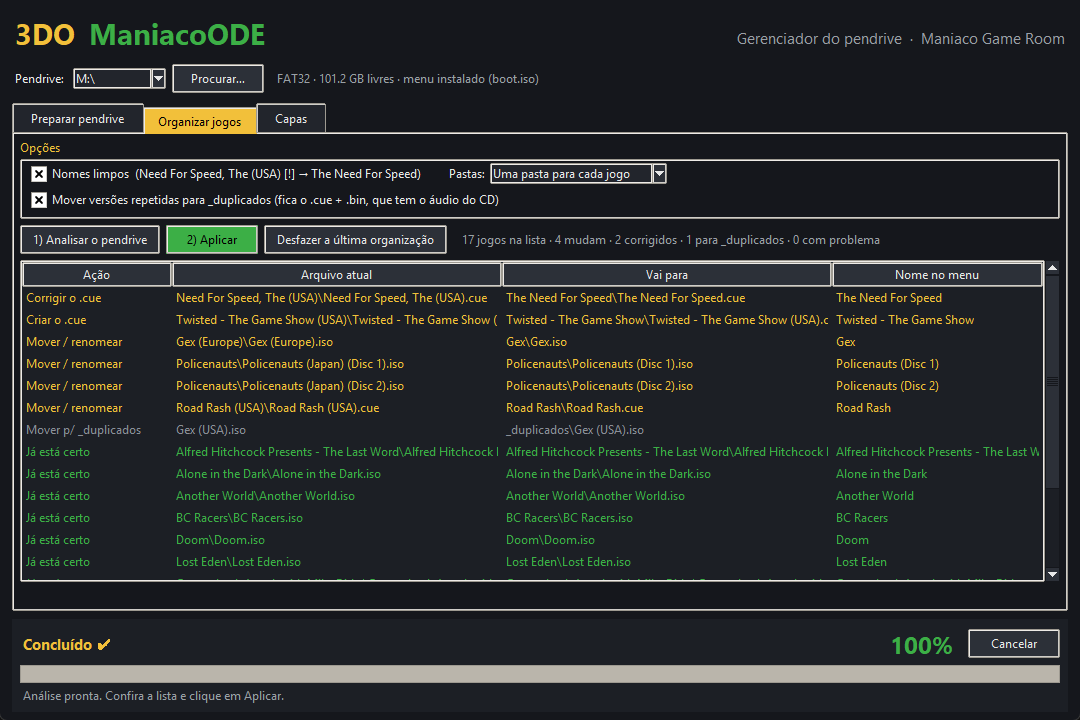
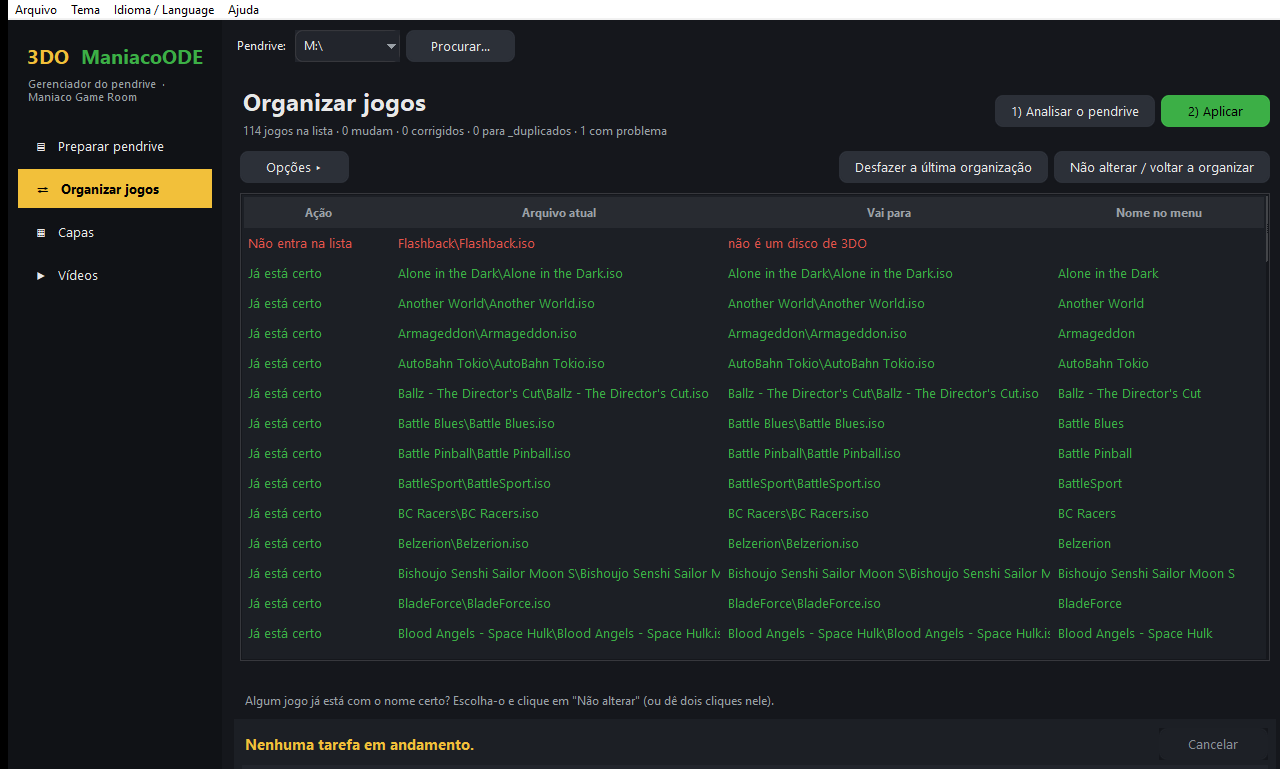
Documentação v1.3: programa do PC novo (barra lateral, grades, importar pasta, atualização), imagens PT/EN

Changed region(s): [[0.0, 0.0, 1.0, 1.0], [0.8556, 0.275, 0.9472, 0.3056], [0.9778, 0.825, 1.0, 0.8556]]

diff --git a/MANUAL.en.md b/MANUAL.en.md
@@ -79,17 +79,20 @@ Policenauts/
 
 ![Prepare USB drive](imagens/app-preparar-en.png)
 
-- **USB drive** (top): pick the drive letter. The program suggests the drives that already have `boot.iso` first. Next to it you see the file system, the free space and whether the menu is installed. Use **Browse…** if the drive is not listed.
-- **Tabs:** Prepare USB drive, Organize games, Box art and Videos.
+- **Sidebar** (left): the four screens — **Prepare USB drive**, **Organize games**, **Box art** and **Videos**; the open one is highlighted. At the bottom you see the state of the drive: file system, free space and whether the menu is installed.
+- **USB drive** (top): pick the drive letter. The program suggests the drives that already have `boot.iso` first. Use **Browse…** if the drive is not listed.
+- **Each screen** has its title and the **main action** (in green) at the top right. The advanced options are **collapsed** behind a button with **▸**: click it to open them.
 - **Footer:** shows the current step, the percentage, the time left and the **Cancel** button.
 - **File menu:** opens the USB drive in Explorer.
 - **Theme menu:** changes the window colors (Night, ManiacoODE menu (blue and gold) and Light). The choice is saved.
 - **Idioma / Language menu:** shows the window in Portuguese or English. The first time, the program follows the Windows language.
-- **Help menu:** Maniaco Game Room blog and About.
+- **Help menu:** **Check for updates…**, **Check when the program starts**, Maniaco Game Room blog and About.
+
+**Program updates:** under **Help → Check for updates…** the program looks up the latest release on GitHub and shows what is new. If there is a newer version, **Download and update** downloads the program, checks its **SHA-256** and, with your OK, closes and swaps the file; the old one stays next to it as `3DO-ManiacoODE-Gerenciador.exe.anterior`, so you can go back. **Check when the program starts** (off by default) shows a note in the status bar when a new version is out. It needs internet. Only the PC program updates itself: you copy `boot.iso` and the firmware (the firmware can also be updated from the menu Options).
 
 ### 4.2 Prepare USB drive
 
-Tick what you want to do and click **Prepare USB drive**. Each step can be done on its own.
+Tick what you want to do and click **Prepare USB drive** (green button, top right). Each step can be done on its own. The game organization options are under **How to organize the games ▸**.
 
 1. **Install the menu (`boot.iso`):** point to the downloaded `boot.iso`. The one already on the drive becomes `boot_anterior.iso`.
 2. **Update the firmware (`SataTo3DO.uf2`):** the program checks that the file really is RP2040 firmware and copies it to the root of the drive. Then, on the 3DO, open **Options → Update firmware** ([section 9](#9-updating-the-firmware)).
@@ -115,7 +118,7 @@ The program only goes on if the drive is **FAT32** or **exFAT**. At the end, the
 
 Tidies up the games that are **already on the USB drive**, with the same rules the firmware uses to build the list.
 
-1. Pick the options:
+1. Click **Options ▸** and pick:
    - **Clean names:** removes the region and tags from the name (`Need For Speed, The (USA) [!]` → `The Need For Speed`);
    - **Folders:** one folder per game, by letter (A, B, C…) or keep the current folders;
    - **Move repeated versions to `_duplicados`:** keeps a single copy of each game. Between an `.iso` and a `.cue` + `.bin`, the `.cue` + `.bin` stays, because it has the CD audio.
@@ -139,16 +142,19 @@ Files the ODE cannot read (`.zip`, `.7z`…) are listed in a warning below the l
 
 The box art is shown next to the list in the menu, in a 106×116 pixel frame, with the game's genre, studio and year.
 
-1. Click **1) Check the box art**. The list shows each game, where its box art comes from and whether it is already on the drive. Games **without box art** come first, in red; box art from **Wikipedia** and **title screens** show in yellow, so you can check them.
-2. Click a game to see the **TV preview**, already inside the menu frame.
-3. Click **2) Write box art to the USB drive** to write everything to the `covers` folder.
+1. Click **1) Check the box art**. Each game becomes a **card** with the box art thumbnail, its name and its state: **box art ok**, **check it** (yellow: box art from Wikipedia, a title screen or a screenshot, for you to check) or **no box art** (red; those come first). The card also says whether the box art is already on the drive and where the info comes from (**internet**, **you** or **missing**). The thumbnails show up little by little.
+2. **Search:** type part of the name. The **All games**, **No box art**, **Box art to check** and **Not written to the drive yet** buttons filter the grid, and the counter shows "N of M games". The **arrow keys** move through the grid.
+3. Click a card to see, on the right, the **TV preview** (already inside the menu frame), the game's **genre, studio and release** and the actions.
+4. Click **2) Write box art to the USB drive** to write everything to the `covers` folder.
+
+The options of this screen are collapsed under **Box art options ▸**: how the box art fits, your image folder and where to look.
 
 **How the box art fits (default for every game):**
 
 - **Fill the frame** (recommended): stretches the whole box art until it fills the frame, without cropping anything.
 - **Keep the aspect ratio:** the box art is not stretched, with bars around it.
 
-**This box art:** in the preview panel, pick the mode for the selected game only — **Default** (follows the option above), **Fill** or **Aspect ratio**. This way some box arts fill the frame and others keep their aspect ratio. Games with their own mode show "· fills the frame" or "· keeps the aspect ratio" in the list.
+**This box art:** in the preview panel, pick the mode for the selected game only — **Default** (follows the option above), **Fill** or **Aspect ratio**. This way some box arts fill the frame and others keep their aspect ratio. The chosen mode is kept on the drive (`<game>.modo`).
 
 **Where to look for box art:** the program uses the first one it finds, in this order:
 
@@ -156,9 +162,10 @@ The box art is shown next to the list in the menu, in a 106×116 pixel frame, wi
 2. **libretro-thumbnails** — a box art collection, with the American, European and Japanese versions;
 3. **ScreenScraper** and **TheGamesDB** — only with an account ([section 4.6](#46-screenscraper-and-thegamesdb-accounts));
 4. **Wikipedia** — the image of the game's article. **Check it:** sometimes it is the box of another platform;
-5. The game's **title screen** — last resort, always keeping its aspect ratio.
+5. The game's **title screen** — always keeping its aspect ratio;
+6. A **game screenshot** (libretro) — last resort, also keeping its aspect ratio.
 
-The **Use Wikipedia…** and **Use the title screen…** boxes turn those sources on or off for the automatic choice. With **Download what is missing** off, only what was downloaded before is used.
+The **Use Wikipedia…** and **Use the title screen or a game screenshot…** boxes turn those sources on or off for the automatic choice. With **Download what is missing** off, only what was downloaded before is used.
 
 **Changing a game's box art** (preview panel buttons):
 
@@ -172,7 +179,9 @@ The **Use Wikipedia…** and **Use the title screen…** boxes turn those source
 
 The chosen box art is kept on the USB drive and used from then on. After changing it, click **2) Write box art to the USB drive**.
 
-**Game info (genre, studio and release):** the **Info** column of the list shows where it comes from — **internet**, **you** or **missing**. To fill it in or fix it, pick the game and click **Game info…** (or double-click it):
+**Import box art from a folder:** the **Import box art…** button takes the images of a PC folder (for example an EmuMovies folder, with subfolders) and matches each one with a game on the drive by **name**: same name, same title without the region, or a similar name; among several regions the game's own wins, and "Disc 2" does not take the "Disc 1" image. The program shows how many files it found, how many games **already have your own image** (kept as they are) and how many have no file, and **only imports if you confirm**. The images go to `covers/originais`; then click **2) Write box art to the USB drive**.
+
+**Game info (genre, studio and release):** the card and the panel show where it comes from — **internet**, **you** or **missing**. To fill it in or fix it, pick the game and click **Game info…** (or double-click the card):
 
 - fields **Genre**, **Genre in English** (used with the menu in English), **Studio** and **Released**;
 - below, the lines **as the menu will show them**, with the same font as the 3DO: it warns when the text will be cut with "…" and when there are characters the menu does not have (shown as "?");
@@ -183,15 +192,13 @@ The chosen box art is kept on the USB drive and used from then on. After changin
 
 ### 4.5 Videos
 
-![Videos](imagens/app-videos.png)
-
-(The picture shows the program in Portuguese.)
+![Videos](imagens/app-videos-en.png)
 
 When you rest on a game, the menu plays a short silent clip in place of the box art. **It needs menu v1.2 or newer** (menu v1.1 ignores the videos); on the 3DO you can turn it off in **Options → Video preview**.
 
-1. Click **1) See the videos on the drive**. The list shows each game, whether it already has a video in the menu (and its size) and what was found on **ScreenScraper**: the same name, a **similar** name (you choose) or nothing.
+1. Click **1) See the videos on the drive**. Each game becomes a **card** with a frame of the video already in the menu and its state: **video ok**, **to download** (the same name exists on **ScreenScraper**), **no result** or **no video** (not checked yet). The **All games**, **With video**, **To download** and **No video** buttons and the **Search** box filter the grid. **About the videos ▸** shows the limits and the license.
 2. Click **2) Download the missing ones from ScreenScraper**: the program checks the site's game list (no account needed), tells you how many videos it will download and writes to the drive the videos of the games with no video that have the same name on the site. The **similar** ones are left for you to choose.
-3. Click a game to see the **animated preview**, the way the menu shows it, inside the frame.
+3. Click a card to see, on the right, the **animated preview**, the way the menu shows it, inside the frame, and what ScreenScraper found for the game.
 
 **One game at a time** (buttons of the preview panel):
 
@@ -201,6 +208,10 @@ When you rest on a game, the menu plays a short silent clip in place of the box 
 - **Remove the video from the menu** — the video leaves the menu; the original goes to `covers/originais/_antigas` (it is not deleted).
 
 Every video is converted to the menu's safe limit: 104 pixels wide, 15 frames per second, up to 8 seconds and about 200 KB. The original video is kept in `covers/originais` (1 to 10 MB each), so the start can be changed later.
+
+**Import videos from a folder:** **Import videos…** does the same as for box art: it takes the videos of a PC folder (for example EmuMovies clips), matches them by name with the games on the drive, shows the summary and, with your OK, converts each one for the menu (a few seconds per game). Games that already have a video stay as they are.
+
+**Sound (testing):** menu v1.2 plays the preview **without sound**. The program can already write the clip's sound next to the video (mono, 11025 Hz, about 88 KB more) for a future menu that plays sound, but this comes **off**: the **Write the video sound** box in the panel turns it on. **Add sound…** redoes the videos already on the drive with sound (from the kept original, or downloading again from ScreenScraper). With menu v1.2 there is no point in turning it on: the extra bytes only make the video a little slower to load.
 
 > ScreenScraper videos are licensed Creative Commons BY-NC-SA: personal use only, non-commercial.
 
@@ -223,7 +234,7 @@ If an account is refused or the daily quota runs out, the program stops using th
 | `boot_anterior.iso` | the previous menu |
 | `SataTo3DO.uf2` | the new firmware, until it is applied (becomes `.ok` or `.erro`) |
 | `saves/` | save backups made by the menu |
-| `covers/` | box art (`.cap`), video previews (`.vid`), game info (`dados.cap`) and the box art and video list (`indice.cap`) |
+| `covers/` | box art (`.cap`), video previews (`.vid`, with sound if you wrote it), game info (`dados.cap`) and the box art and video list (`indice.cap`) |
 | `covers/originais/` | the images you chose, the mode of each box art (`<game>.modo`), the info you filled in (`<game>.info`), the original videos and the start of each clip (`<game>.inicio`) |
 | `covers/originais/_antigas/` | images and videos you replaced or removed |
 | `_duplicados/` | repeated versions taken out of the list |

diff --git a/MANUAL.md b/MANUAL.md
@@ -77,17 +77,20 @@ O **3DO ManiacoODE — Gerenciador do pendrive** deixa o pendrive pronto para o 
 
 ![Preparar pendrive](imagens/app-preparar.png)
 
-- **Pendrive** (topo): escolha a letra do pendrive. O programa sugere primeiro os que já têm o `boot.iso`. Ao lado aparecem o sistema de arquivos, o espaço livre e se o menu está instalado. Use **Procurar…** se o pendrive não aparecer.
-- **Abas:** Preparar pendrive, Organizar jogos, Capas e Vídeos.
+- **Barra lateral** (esquerda): as quatro telas — **Preparar pendrive**, **Organizar jogos**, **Capas** e **Vídeos**; a que está aberta fica em destaque. Embaixo aparece a situação do pendrive: sistema de arquivos, espaço livre e se o menu está instalado.
+- **Pendrive** (topo): escolha a letra do pendrive. O programa sugere primeiro os que já têm o `boot.iso`. Use **Procurar…** se o pendrive não aparecer.
+- **Cada tela** tem o título e a **ação principal** (em verde) no canto superior direito. As opções avançadas ficam **recolhidas** atrás de um botão com **▸**: clique para abrir.
 - **Rodapé:** mostra a etapa atual, a porcentagem, o tempo que falta e o botão **Cancelar**.
 - **Menu Arquivo:** abre o pendrive no Explorer.
 - **Menu Tema:** muda as cores da janela (Noite, Menu ManiacoODE (azul e ouro) e Claro). A escolha fica salva.
 - **Menu Idioma / Language:** mostra a janela em português ou em inglês. Na primeira vez, o programa usa o idioma do Windows.
-- **Menu Ajuda:** blog Maniaco Game Room e Sobre.
+- **Menu Ajuda:** **Verificar atualizações…**, **Verificar ao abrir o programa**, blog Maniaco Game Room e Sobre.
+
+**Atualizações do programa:** em **Ajuda → Verificar atualizações…** o programa consulta a última release no GitHub e mostra as novidades. Havendo versão nova, **Baixar e atualizar** baixa o programa, confere o **SHA-256** e, com o seu aval, fecha e troca o arquivo; o antigo fica ao lado como `3DO-ManiacoODE-Gerenciador.exe.anterior`, para você voltar se precisar. **Verificar ao abrir o programa** (desligado por padrão) avisa na barra de status quando sai versão nova. Precisa de internet. Só o programa do PC se atualiza sozinho: o `boot.iso` e a firmware você copia (a firmware também pelas Opções do menu).
 
 ### 4.2 Preparar pendrive
 
-Marque o que quer fazer e clique em **Preparar pendrive**. Cada passo pode ser feito sozinho.
+Marque o que quer fazer e clique em **Preparar pendrive** (botão verde, no canto superior direito). Cada passo pode ser feito sozinho. As opções de organização dos jogos ficam em **Como organizar os jogos ▸**.
 
 1. **Instalar o menu (`boot.iso`):** aponte o `boot.iso` baixado. O que já estava no pendrive vira `boot_anterior.iso`.
 2. **Atualizar a firmware (`SataTo3DO.uf2`):** o programa confere se o arquivo é mesmo uma firmware do RP2040 e copia para a raiz do pendrive. Depois, no 3DO, abra **Opções → Atualizar firmware** ([seção 9](#9-atualizar-a-firmware)).
@@ -113,7 +116,7 @@ O programa só continua se o pendrive estiver em **FAT32** ou **exFAT**. Ao fina
 
 Arruma os jogos que **já estão no pendrive**, com as mesmas regras que a firmware usa para montar a lista.
 
-1. Escolha as opções:
+1. Clique em **Opções ▸** e escolha:
    - **Nomes limpos:** tira região e marcas do nome (`Need For Speed, The (USA) [!]` → `The Need For Speed`);
    - **Pastas:** uma pasta para cada jogo, por letra (A, B, C…) ou manter as pastas atuais;
    - **Mover versões repetidas para `_duplicados`:** deixa só uma cópia de cada jogo. Entre um `.iso` e um `.cue` + `.bin`, fica o `.cue` + `.bin`, que tem o áudio do CD.
@@ -137,16 +140,19 @@ Arquivos que a ODE não lê (`.zip`, `.7z`…) aparecem num aviso embaixo da lis
 
 A capa aparece ao lado da lista no menu, numa moldura de 106×116 pixels, com o gênero, o estúdio e o ano do jogo.
 
-1. Clique em **1) Ver capas do pendrive**. A lista mostra cada jogo, de onde vem a capa e se ela já está no pendrive. Jogos **sem capa** aparecem primeiro, em vermelho; capas da **Wikipedia** e **telas de título** aparecem em amarelo, para você conferir.
-2. Clique num jogo para ver a **prévia na TV**, já dentro da moldura do menu.
-3. Clique em **2) Gerar capas no pendrive** para gravar tudo na pasta `covers`.
+1. Clique em **1) Ver capas do pendrive**. Cada jogo vira um **cartão** com a miniatura da capa, o nome e a situação: **capa ok**, **a conferir** (amarelo: capa da Wikipedia, tela de título ou captura de tela, para você conferir) ou **sem capa** (vermelho; esses aparecem primeiro). O cartão também diz se a capa já está no pendrive e de onde vêm as informações (**internet**, **você** ou **falta**). As miniaturas aparecem aos poucos.
+2. **Buscar:** digite parte do nome. Os botões **Todos os jogos**, **Sem capa**, **Capa a conferir** e **Falta gerar no pendrive** filtram a grade, e o contador mostra "N de M jogos". As **setas do teclado** andam pela grade.
+3. Clique num cartão para ver, à direita, a **prévia na TV** (já dentro da moldura do menu), o **gênero, o estúdio e o lançamento** do jogo e as ações.
+4. Clique em **2) Gerar capas no pendrive** para gravar tudo na pasta `covers`.
+
+As opções desta tela ficam recolhidas em **Opções das capas ▸**: como encaixar a capa, a sua pasta de imagens e onde procurar.
 
 **Como encaixar a capa (padrão para todos os jogos):**
 
 - **Preencher a moldura** (recomendado): estica a capa inteira até encher a moldura, sem cortar nada.
 - **Manter a proporção:** a capa fica sem esticar, com faixas em volta.
 
-**Esta capa:** no painel da prévia, escolha o modo só do jogo selecionado — **Padrão** (segue a opção acima), **Preencher** ou **Proporção**. Assim umas capas preenchem a moldura e outras mantêm a proporção. A lista mostra "· preenche a moldura" ou "· mantém a proporção" nos jogos com modo próprio.
+**Esta capa:** no painel da prévia, escolha o modo só do jogo selecionado — **Padrão** (segue a opção acima), **Preencher** ou **Proporção**. Assim umas capas preenchem a moldura e outras mantêm a proporção. O modo escolhido fica guardado no pendrive (`<jogo>.modo`).
 
 **Onde procurar as capas:** o programa usa a primeira que encontrar, nesta ordem:
 
@@ -154,9 +160,10 @@ A capa aparece ao lado da lista no menu, numa moldura de 106×116 pixels, com o 
 2. **libretro-thumbnails** — acervo de capas, com as versões americana, europeia e japonesa;
 3. **ScreenScraper** e **TheGamesDB** — só com conta ([seção 4.6](#46-contas-do-screenscraper-e-do-thegamesdb));
 4. **Wikipedia** — a imagem do artigo do jogo. **Confira:** às vezes é a caixa de outra plataforma;
-5. **Tela de título** do jogo — último recurso, sempre com a proporção mantida.
+5. **Tela de título** do jogo — sempre com a proporção mantida;
+6. **Captura de tela do jogo** (libretro) — último recurso, também com a proporção mantida.
 
-As caixas **Usar a Wikipedia…** e **Usar a tela de título…** ligam ou desligam essas fontes na escolha automática. **Baixar da internet o que faltar** desligada usa só o que já foi baixado antes.
+As caixas **Usar a Wikipedia…** e **Usar a tela de título ou uma captura do jogo…** ligam ou desligam essas fontes na escolha automática. **Baixar da internet o que faltar** desligada usa só o que já foi baixado antes.
 
 **Trocar a capa de um jogo** (botões do painel da prévia):
 
@@ -170,7 +177,9 @@ As caixas **Usar a Wikipedia…** e **Usar a tela de título…** ligam ou desli
 
 A capa escolhida fica guardada no pendrive e é usada nas próximas vezes. Depois de trocar, clique em **2) Gerar capas no pendrive**.
 
-**Informações do jogo (gênero, estúdio e lançamento):** a coluna **Informações** da lista mostra de onde elas vêm — **internet**, **você** ou **falta**. Para preencher ou corrigir, escolha o jogo e clique em **Informações do jogo…** (ou dê dois cliques nele):
+**Importar capas de uma pasta:** o botão **Importar capas…** pega as imagens de uma pasta do PC (por exemplo, uma pasta do EmuMovies, com subpastas) e casa cada uma com um jogo do pendrive pelo **nome**: nome igual, mesmo título sem a região ou nome parecido; entre várias regiões ganha a do jogo, e o "Disco 2" não pega a imagem do "Disco 1". O programa mostra quantos arquivos achou, quantos jogos **já têm capa sua** (ficam como estão) e quantos ficaram sem arquivo, e **só importa se você confirmar**. As imagens vão para `covers/originais`; depois clique em **2) Gerar capas no pendrive**.
+
+**Informações do jogo (gênero, estúdio e lançamento):** o cartão e o painel mostram de onde elas vêm — **internet**, **você** ou **falta**. Para preencher ou corrigir, escolha o jogo e clique em **Informações do jogo…** (ou dê dois cliques no cartão):
 
 - campos **Gênero**, **Gênero em inglês** (usado com o menu em inglês), **Estúdio** e **Lançamento**;
 - embaixo, as linhas **como o menu vai mostrar**, com a mesma fonte do 3DO: avisa quando o texto vai ser cortado com "…" e quando há caracteres que o menu não tem (aparecem como "?");
@@ -185,9 +194,9 @@ A capa escolhida fica guardada no pendrive e é usada nas próximas vezes. Depoi
 
 Parado num jogo, o menu toca um clipe curto e sem som no lugar da capa. **Precisa do menu v1.2 ou mais novo** (o menu v1.1 ignora os vídeos); no 3DO, dá para desligar em **Opções → Prévia em vídeo**.
 
-1. Clique em **1) Ver vídeos do pendrive**. A lista mostra cada jogo, se ele já tem vídeo no menu (e o tamanho) e o que foi achado no **ScreenScraper**: o mesmo nome, um nome **parecido** (você escolhe) ou nada.
+1. Clique em **1) Ver vídeos do pendrive**. Cada jogo vira um **cartão** com um quadro do vídeo que já está no menu e a situação: **vídeo ok**, **para baixar** (o mesmo nome existe no **ScreenScraper**), **sem resultado** ou **sem vídeo** (ainda não consultado). Os botões **Todos os jogos**, **Com vídeo**, **Para baixar** e **Sem vídeo** e o campo **Buscar** filtram a grade. **Sobre os vídeos ▸** mostra os limites e a licença.
 2. Clique em **2) Baixar do ScreenScraper os que faltam**: o programa consulta a lista de jogos do site (não precisa de conta), mostra quantos vídeos vai baixar e grava no pendrive os dos jogos sem vídeo que têm o mesmo nome no site. Os **parecidos** ficam para você escolher.
-3. Clique num jogo para ver a **prévia animada**, do jeito que o menu mostra, dentro da moldura.
+3. Clique num cartão para ver, à direita, a **prévia animada**, do jeito que o menu mostra, dentro da moldura, e o que o ScreenScraper achou para o jogo.
 
 **Um jogo de cada vez** (botões do painel da prévia):
 
@@ -197,6 +206,10 @@ Parado num jogo, o menu toca um clipe curto e sem som no lugar da capa. **Precis
 - **Tirar o vídeo do menu** — o vídeo sai do menu; o original vai para `covers/originais/_antigas` (não é apagado).
 
 Todo vídeo é convertido para o limite seguro do menu: 104 pixels de largura, 15 quadros por segundo, até 8 segundos e cerca de 200 KB. O vídeo original fica guardado em `covers/originais` (de 1 a 10 MB cada), para dar para mudar o início depois.
+
+**Importar vídeos de uma pasta:** **Importar vídeos…** faz o mesmo que as capas: pega os vídeos de uma pasta do PC (por exemplo, clipes do EmuMovies), casa pelo nome com os jogos do pendrive, mostra o resumo e, com o seu aval, converte cada um para o menu (alguns segundos por jogo). Quem já tem vídeo fica como está.
+
+**Som (em teste):** o menu v1.2 toca a prévia **sem som**. O programa já sabe gravar o som do clipe junto do vídeo (mono, 11025 Hz, cerca de 88 KB a mais), para um menu futuro que toque som, mas isso vem **desligado**: a caixa **Gravar o som do vídeo** do painel liga. **Adicionar som…** refaz com som os vídeos que já estão no pendrive (do original guardado ou baixando de novo do ScreenScraper). Com o menu v1.2 não há vantagem em ligar: os bytes a mais só deixam o vídeo um pouco mais lento para carregar.
 
 > Os vídeos do ScreenScraper têm licença Creative Commons BY-NC-SA: só para uso pessoal, sem fins comerciais.
 
@@ -219,7 +232,7 @@ Se a conta for recusada ou a cota do dia acabar, o programa para de usar aquela 
 | `boot_anterior.iso` | o menu que estava antes |
 | `SataTo3DO.uf2` | a firmware nova, até ser aplicada (vira `.ok` ou `.erro`) |
 | `saves/` | backup de saves feito pelo menu |
-| `covers/` | capas (`.cap`), vídeos de prévia (`.vid`), dados dos jogos (`dados.cap`) e a lista das capas e dos vídeos (`indice.cap`) |
+| `covers/` | capas (`.cap`), vídeos de prévia (`.vid`, com o som se você gravou), dados dos jogos (`dados.cap`) e a lista das capas e dos vídeos (`indice.cap`) |
 | `covers/originais/` | as imagens que você escolheu, o modo de cada capa (`<jogo>.modo`), as informações preenchidas à mão (`<jogo>.info`), os vídeos originais e o início de cada clipe (`<jogo>.inicio`) |
 | `covers/originais/_antigas/` | imagens e vídeos que você trocou ou tirou |
 | `_duplicados/` | versões repetidas tiradas da lista |

diff --git a/README.en.md b/README.en.md
@@ -45,7 +45,10 @@ With the USB drive in the PC, a few clicks:
 4. **fixes broken `.cue` files**, creates the missing ones and removes leftover old ones;
 5. makes the **box art** and game info (genre, studio and year), which you can also **fill in by hand**;
 6. writes the games' **video previews** (from ScreenScraper, no account needed, or your own video);
-7. creates the **`saves`** folder.
+7. **imports box art and videos from a folder** on the PC (for example from EmuMovies), matching them by game name;
+8. creates the **`saves`** folder.
+
+New look: a **sidebar**, a **box art grid** with search and filters, a game panel and collapsed options. The program **updates itself from GitHub** (Help → Check for updates…).
 
 Box art comes from **libretro-thumbnails**, **Wikipedia** and, with an account, **ScreenScraper** and **TheGamesDB**. You see a **preview of how it looks on the TV**, choose among every box art found or use your own image, and decide **box art by box art** whether it fills the frame or keeps its aspect ratio.
 

diff --git a/README.md b/README.md
@@ -45,7 +45,10 @@ Com o pendrive no PC, poucos cliques:
 4. **corrige `.cue`** quebrado, cria o `.cue` que falta e tira `.cue` antigo que sobrou;
 5. gera as **capas** e os dados dos jogos (gênero, estúdio e ano), que você também pode **preencher à mão**;
 6. grava os **vídeos de prévia** dos jogos (do ScreenScraper, sem conta, ou um vídeo seu);
-7. cria a pasta **`saves`**.
+7. **importa capas e vídeos de uma pasta** do PC (por exemplo, do EmuMovies), casando pelo nome do jogo;
+8. cria a pasta **`saves`**.
+
+Visual novo: **barra lateral**, **grade de capas** com busca e filtros, painel do jogo e opções recolhidas. O programa **se atualiza pelo GitHub** (Ajuda → Verificar atualizações…).
 
 As capas vêm do **libretro-thumbnails**, da **Wikipedia** e, com conta, do **ScreenScraper** e do **TheGamesDB**. Você vê a **prévia de como fica na TV**, escolhe entre todas as capas encontradas ou usa uma imagem sua, e decide **capa por capa** se ela preenche a moldura ou mantém a proporção.
 
